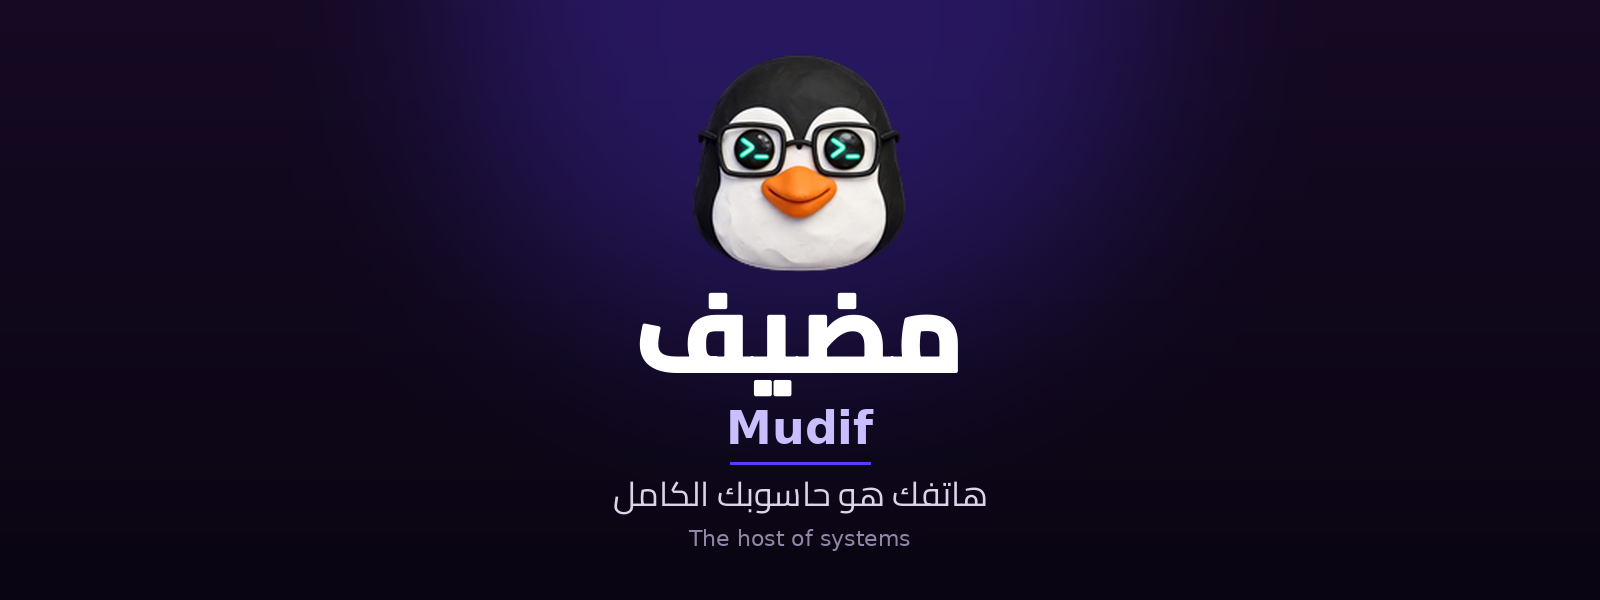
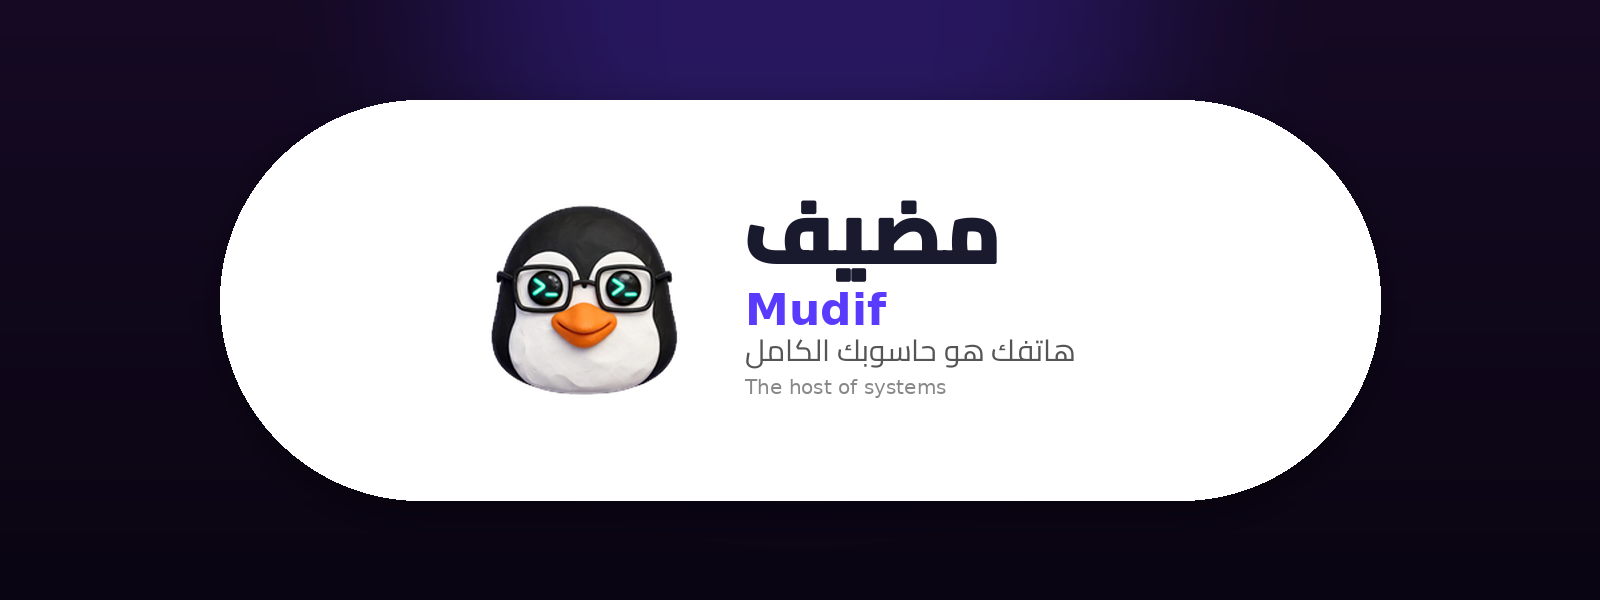
README v2: brand, two languages, white-pill hero

diff --git a/README.md b/README.md
@@ -1,6 +1,6 @@
 <div align="center">
 
-**العربية** | [English](README_en.md) | [الدارجة](README_darija.md)
+<img src="docs/images/icons/globe.svg" width="16" height="16" alt="language"> **العربية** | [English](README_en.md)
 
 </div>
 
@@ -15,6 +15,8 @@
   <img src="docs/images/badges/kotlin.svg" alt="kotlin 2.0.20">
   <img src="docs/images/badges/store.svg" alt="store 1228 programs">
 </p>
+
+<p align="center"><em>«المستخدم لا يسمع كلمة لينكس أبدا.»</em></p>
 
 <p align="center">
   <strong>مضيف يحوّل هاتفك إلى حاسوب كامل: نظام دبيان مع واجهة LXQt، بالعربية الفصحى، وتشغيل برامج ويندوز من المتجر.</strong>
@@ -149,10 +151,10 @@ mudif/
 <a id="contributing"></a>
 ## المساهمة
 
-مضيف مشروع شخصي لصاحبه أنس بوعلام. إن وجدت خطأ، افتح Issue مع لقطة شاشة وخطوات الإعادة، أو أرسل Pull Request صغيرا في نطاق ضيق. لا ترسل تغييرات خارج نطاق المشكلة.
+مضيف مشروع شخصي من تقنية المستقبل | Exploring Tech. إن وجدت خطأ، افتح Issue مع لقطة شاشة وخطوات الإعادة، أو أرسل Pull Request صغيرا في نطاق ضيق. لا ترسل تغييرات خارج نطاق المشكلة.
 
 ---
 
 تقنية المستقبل | Exploring Tech
 
-© 2026 Anas boualam: جميع الحقوق محفوظة
+© 2026 تقنية المستقبل | Exploring Tech: جميع الحقوق محفوظة

diff --git a/README_en.md b/README_en.md
@@ -1,6 +1,6 @@
 <div align="center">
 
-[العربية](README.md) | **English** | [الدارجة](README_darija.md)
+<img src="docs/images/icons/globe.svg" width="16" height="16" alt="language"> [العربية](README.md) | **English**
 
 </div>
 
@@ -15,6 +15,8 @@
   <img src="docs/images/badges/kotlin.svg" alt="kotlin 2.0.20">
   <img src="docs/images/badges/store.svg" alt="store 1228 programs">
 </p>
+
+<p align="center"><em>"The user never hears the word Linux."</em></p>
 
 <p align="center">
   <strong>Mudif turns your phone into a full computer: a Debian system with the LXQt desktop, in Fusha Arabic, running Windows programs from the store.</strong>
@@ -149,10 +151,10 @@ mudif/
 <a id="contributing"></a>
 ## Contributing
 
-Mudif is a personal project by its owner, Anas boualam. If you find a bug, open an Issue with a screenshot and steps to reproduce, or send a small Pull Request in a narrow scope. Do not send changes outside the scope of the problem.
+Mudif is a personal project by تقنية المستقبل | Exploring Tech. If you find a bug, open an Issue with a screenshot and steps to reproduce, or send a small Pull Request in a narrow scope. Do not send changes outside the scope of the problem.
 
 ---
 
 تقنية المستقبل | Exploring Tech
 
-Copyright © 2026 Anas boualam. All rights reserved.
+Copyright © 2026 تقنية المستقبل | Exploring Tech. All rights reserved.
